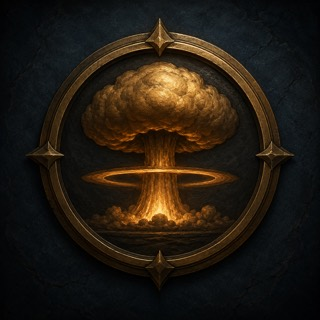
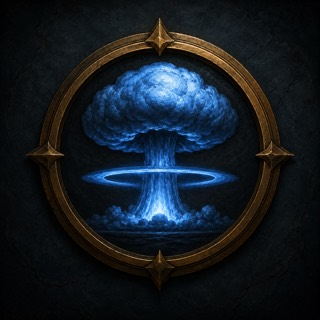
feat(council-rooms): Medien — Plates, Türen, Embleme (Derivate + Provenienz)
Farbige Bereichs-/Prozess-Embleme und hellere Szenen-/Tür-Plates als optimierte
Anzeige-Derivate in site/static/media/ (einzige Auslieferung); C2PA-Originale
und Vorgänger-Fassungen als Provenienz unter docs/asset-originals/ (außerhalb
des Deploy-Pfads), ASSETS.md als Registry (Rolle, Quelle, Datum, SHA-256,
C2PA-Hinweis). Quell-PNGs aus docs/ mit dokumentiert.

Changed region(s): [[0.25, 0.125, 0.75, 0.75], [0.4062, 0.125, 0.4688, 0.1562]]

diff --git a/docs/asset-originals/ASSETS.md b/docs/asset-originals/ASSETS.md
@@ -90,3 +90,199 @@ Ratssaal wird initial als große Szene geladen. Tür, Vorzimmer und Archiv werde
 zugehörigen Zustand in den DOM eingesetzt. Die unveränderten PNG-Originale bleiben im Repo
 (`docs/asset-originals/media/`) für Provenienz und spätere Neuableitungen erhalten, außerhalb
 des Deploy-Pfads.
+
+## Helleres Re-Rendering der Szenen + Tür-Motive (17.07.2026)
+
+Für den Drei-Räume-Umbau (`feat/council-rooms`, siehe `docs/kimi-analysis.md`) hat der
+Auftraggeber sechs neue, zusammengehörige Bilder bereitgestellt (ChatGPT-Generierung,
+Dateinamen `ChatGPT Image 17. Juli 2026, 11_47_5x (n).png`): die vier Szenen als **hellere
+Fassungen** (Mitteltöne angehoben, Motiv und Stil unverändert) sowie **zwei neue Tür-Motive**
+im Hochformat — die bewusst weniger prunkvollen Archivtüren, die in den Szenen nicht
+existieren. Alle sechs PNGs tragen eingebettete C2PA Content Credentials (`gpt-image`
+v2.0, `digitalSourceType: trainedAlgorithmicMedia`; verifiziert per Strings-Scan, kein
+`c2patool` verfügbar). Die Originale liegen außerhalb des Deploy-Pfads; die `sips`-Derivate
+strippen die Credentials — bewusst in Kauf genommen, die Originale bleiben byte-identisch
+archiviert.
+
+| Original unter `docs/asset-originals/media/` | Rolle | ChatGPT-Datei | Maße | Bytes | SHA-256 |
+|---|---|---|---:|---:|---|
[6 lines of base64/hex data omitted]
+
+**Prompts/Quelle:** Die Tür-Motive folgen der Spezifikation A1/A2 in
+`docs/kimi-analysis.md` §5 (schlichte Holztür zwischen Karteischränken mit Wandlämpchen
+bzw. unauffällige Seitentür zwischen Steinsäulen mit Bernstein-Lichtfuge; Hochformat 3:4,
+ruhige Label-Zonen, keine Schrift im Bild, hellere Mitten als der Bestand). Die vier
+Szenen sind hellere Re-Renderings der bestehenden Motive; ihr Promptwortlaut ist nicht
+überliefert, die Zuordnung wurde vom Auftraggeber visuell bestätigt (17.07.2026).
+
+**Derivate (einzige ausgelieferte Dateien):** Türen 480 × 640 JPEG q80; Szenen
+1600 × 900 JPEG q70 (hellere Bilder komprimieren schlechter — q70 hält das Deploy
+leicht); Thumbnails 640 × 360 JPEG q72, aus den neuen Szenen (neu) abgeleitet — neben den
+bislang vorhandenen zwei nun alle vier Szenen, weil die Tür-Kacheln der Räume auch auf
+Ratssaal und Türöffnung verweisen.
+
+| Deploytes Derivat | Bytes | SHA-256 |
+|---|---:|---|
[10 lines of base64/hex data omitted]
+
+**Ruhestand der dunklen Fassungen:** Die vier bisherigen Szenen-Derivate (Qualität 78
+bzw. 55) und die beiden alten Thumbnails wurden am 17.07.2026 durch die helleren Fassungen
+ersetzt und liegen als Provenienz unter
+`docs/asset-originals/media/provenance/scenes-display-v1/` (die beiden Thumbnails dort als
+`*-thumbnail.jpg`, da die Dateinamen mit den Szenen kollidieren). Ihre PNG-Originale
+(`council-machine.png`, `council-door.png`, `antechamber-final.png`, `archive-final.png`)
+bleiben unverändert an ihrem dokumentierten Ort. Ausgeliefert wird nichts davon.
+
+**Bekannte Einordnung:** `door-council-archive` ist das dunkelste der sechs Bilder
+(obere Bildhälfte fast Schwarz); die Anklickbarkeit der Tür wird in der UI daher über
+Rahmen/Beschriftung der Tür-Kachel getragen, nicht über das Bild allein.
+
+## Farbige Embleme (v2) + Rückkehr zu dunklen Szenen (17.07.2026, zweiter Pass)
+
+Nach Sichtung des helleren Re-Renderings entschied der Auftraggeber: Die Aufhellung der
+Szenen war zu viel — die Farbe soll aus den **Emblemen** kommen, nicht aus den Plates.
+Deshalb liefert derselbe Tagesdurchgang zehn **farbige Emblem-Motive** (ChatGPT-
+Generierung, Dateinamen `ChatGPT Image 17. Juli 2026, 16_*_*.png`, je 1254 × 1254,
+eingebettete C2PA Content Credentials — `jumb`/`c2pa`-Marker per Strings-Scan verifiziert).
+Sie ersetzen die unbunten Erstfassungen **unter denselben Slot-Dateinamen**; am Code
+ändert sich nichts.
+
+| Slot | Motiv | ChatGPT-Datei | Status |
+|---|---|---|---|
+| `pillar-future` | rote Rakete | `16_42_03` | eingebaut |
+| `pillar-major-risks` | blauer Atompilz | `16_42_24` | eingebaut |
+| `pillar-relieve-suffering` | orange Hände | `16_44_27` | eingebaut |
+| `pillar-overlooked` | Auto auf Brücke | `16_49_04` | eingebaut (17.07.2026, zweiter Pass — vom Auftraggeber bestätigt: das Motiv steht für übersehene Gefahren, z. B. Verkehrssicherheit) |
+| `process-question` | blaues Fragezeichen | `16_48_49` | eingebaut |
+| `process-evidence` | Lupe über Dokumenten | `16_42_44` | eingebaut |
+| `process-three-answers` | drei Pulte | `16_43_02` | eingebaut |
+| `process-reconsider` | Umdenken-Kopf | `16_43_18` | eingebaut |
+| `process-count` | Abakus | `16_43_36` | eingebaut |
+| `process-publish` | Buch mit Siegel | `16_44_43` | eingebaut |
+
+**Originale (Provenienz, nicht Deploy):** `provenance/emblems-v2/<slot>.png`, slot-benannt.
+
+| Original unter `provenance/emblems-v2/` | SHA-256 |
+|---|---|
[10 lines of base64/hex data omitted]
+
+**Derivate (einzige ausgelieferte Dateien):** wie bisher 320 × 320 JPEG q72 via `sips`,
+gleiche Slot-Namen. Lesbarkeit auf einem Kontaktbogen bei 120 px **und 32 px** gesichtet:
+alle zehn Motive (inkl. des zurückgestellten) sind bei 32 px eindeutig erkennbar.
+
+| Deploytes Derivat | Bytes | SHA-256 |
+|---|---:|---|
[10 lines of base64/hex data omitted]
+
+**Szenen zurück auf dunkel:** `scenes/antechamber-display.jpg` und
+`scenes/hall-display.jpg` wurden auf die dunklen Erst-Derivate aus
+`provenance/scenes-display-v1/` zurückgesetzt (byte-identisch kopiert); dasselbe gilt für
+`scene-thumbnails/antechamber-display.jpg` (v1 `antechamber-thumbnail.jpg`). Das
+Hall-Thumbnail existierte in v1 nicht und wurde neu aus dem v1 `hall-display.jpg`
+abgeleitet (640 × 360 JPEG q72). `doorway` und `archive` bleiben **bewusst** in der
+helleren v2-Fassung (In-Szene-Tür und Übergänge sind ein separater Pass). Die abgelösten
+hellen Fassungen von Vorzimmer und Ratssaal liegen als Provenienz unter
+`provenance/scenes-display-v2-hell/` und werden nicht ausgeliefert. Die Tafel-Zone des
+dunklen Vorzimmer-Plates wurde nach dem Tausch per Screenshot gegengeprüft: Das
+Ergebnis-Overlay (Position unverändert, `StudyRoom.svelte`) sitzt weiter auf der
+Schiefer-Zone — keine Justage nötig.
+
+| Wieder aktives Derivat | Bytes | SHA-256 |
+|---|---:|---|
[4 lines of base64/hex data omitted]
+
+## Vorzimmer v3 — volles Original-Frame, zwei Wart-Zustände (18.07.2026)
+
+Der Auftraggeber lieferte zwei neue Vorzimmer-Plates (`ChatGPT Image 18. Juli 2026,
+19_49_56.png` / `19_50_47.png`, je 1915 × 821, C2PA-Marker per Strings-Scan
+verifiziert). Befund: `19_50_47` („Wart wach", beide Figuren wach) ist
+**byte-identisch mit dem historischen Original `provenance/vorraum.png`** — das
+bisherige 16:9-Display war ein Ausschnitt dieses Frames; v3 stellt die Darstellung
+auf das volle Original-Frame um. `19_49_56` zeigt dieselbe Szene mit einer
+**schlafenden** Gestalt („Wart schlafend") und ist ohne Design-Vorgabe für einen
+Zustandswechsel **nicht eingebunden** — archiviert, Entscheidung offen gemeldet.
+
+| Original unter `docs/asset-originals/media/` | Rolle | ChatGPT-Datei | Maße | SHA-256 |
+|---|---|---|---:|---|
[2 lines of base64/hex data omitted]
+
+**Derivate (einzige ausgelieferte Dateien):** wegen des breiteren Frames
+(1915:821 ≈ 2,33:1) ändert sich das Anzeige-Ratio: Display 1600 × 686 (JPEG q70),
+Thumbnail 640 × 274 (q72) — gleiche Slot-Namen; die Thumbnail-Maße wurden in den
+Tür-Karten der Locales (`council.doors`/`archive.doors`, de+en) angepasst. Das
+bisherige 16:9-Display ruht unverändert in `provenance/scenes-display-v1/`.
+Die Doppeltür rechts im Bild (Zone ≈ x 86–100 %, y 5–82 %) trägt den
+In-Szene-Hotspot nach The Council.
+
+| Deploytes Derivat | Bytes | SHA-256 |
+|---|---:|---|
[2 lines of base64/hex data omitted]
+
+**Wieder referenziert (18.07.2026, Korrektur 2):** Die Ablauf-Leiste der Study stellt
+wieder **alle sechs kanonischen Schritte** dar (Frage → Belege → Drei Antworten →
+Umdenken → Zählen → Veröffentlichen). `process/process-question-display.jpg` und
+`process/process-reconsider-display.jpg` wurden per `sips -z 320 320 -s format jpeg
+-s formatOptions 72` aus `provenance/emblems-v2/` neu abgeleitet und liegen wieder in
+`site/static/` — **byte-identisch** mit den historischen Derivaten (Hashes s. Tabellen oben:
+question `7d7fd4dc…`, 34.638 B; reconsider `bb7b5f09…`, 38.740 B).
+
+## Hochformat-Plates für Mobil (18.07.2026, Korrektur 2)
+
+Zwei finale Hochformat-Szenen (je 1024 × 1536, 2:3, C2PA-Marker per Strings-Scan
+verifiziert) für die quellenabhängige Bildebene: Querformat ≥ 1200 px Viewport,
+Hochformat darunter. Die Bildebene steht auf `object-fit: cover` — das Hochformat
+begrenzt den Cover-Verlust auf schmalen Viewports.
+
+| Original unter `docs/asset-originals/media/` | Rolle | ChatGPT-Datei | SHA-256 |
+|---|---|---|---|
[2 lines of base64/hex data omitted]
+
+Nicht eingebunden: `20_35_45 (2)` (Ratssaal-Hochformat) ist laut Auftraggeber ein
+**Draft** — unberührt, kein Archiv-Eintrag; der Ratssaal nutzt vorerst überall die
+Querformat-Plate (`sceneMobile`-Slot im RoomHero ist gebaut, später nur Datei + Prop).
+
+**Derivate (einzige ausgelieferte Dateien):** native 1024 × 1536, JPEG q72 — die
+Quelle liefert nicht mehr Auflösung; Hochskalieren verworfen.
+
+| Deploytes Derivat | Bytes | SHA-256 |
+|---|---:|---|
[2 lines of base64/hex data omitted]
